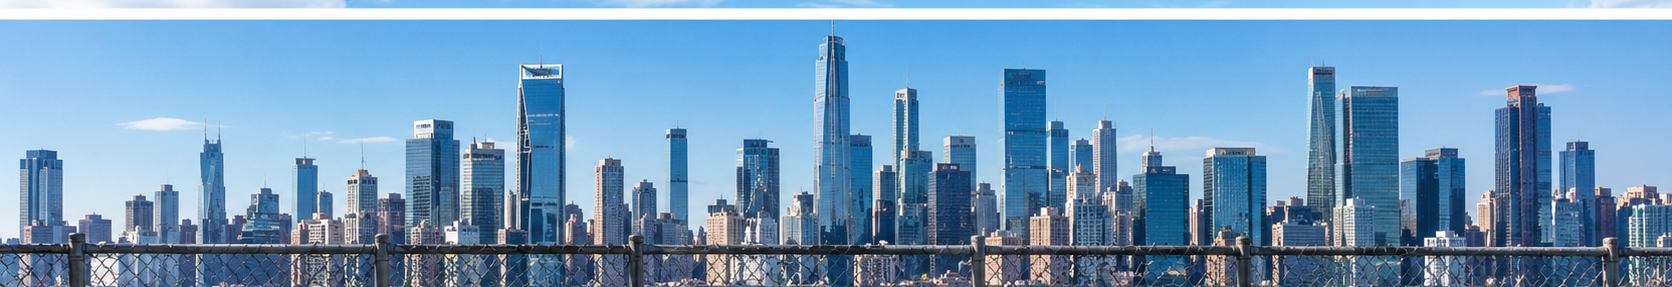
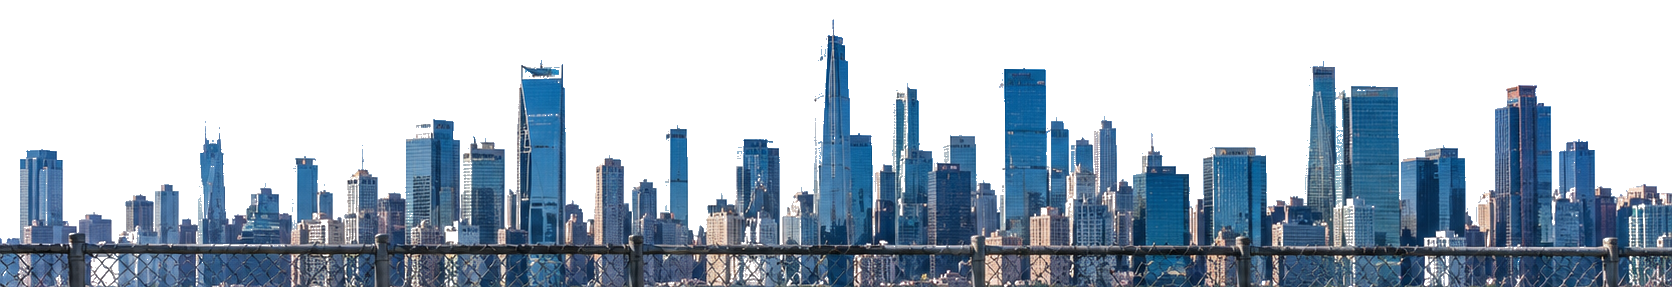
Add files via upload

diff --git a/sw.js b/sw.js
@@ -1,4 +1,4 @@
-const CACHE_NAME = 'juego-3d-v12';
+const CACHE_NAME = 'juego-3d-v13';
 const urlsToCache = ['./', './index.html', './app.js', './manifest.json', './icon-192.png', './icon-512.png'];
 
 self.addEventListener('install', event => {
